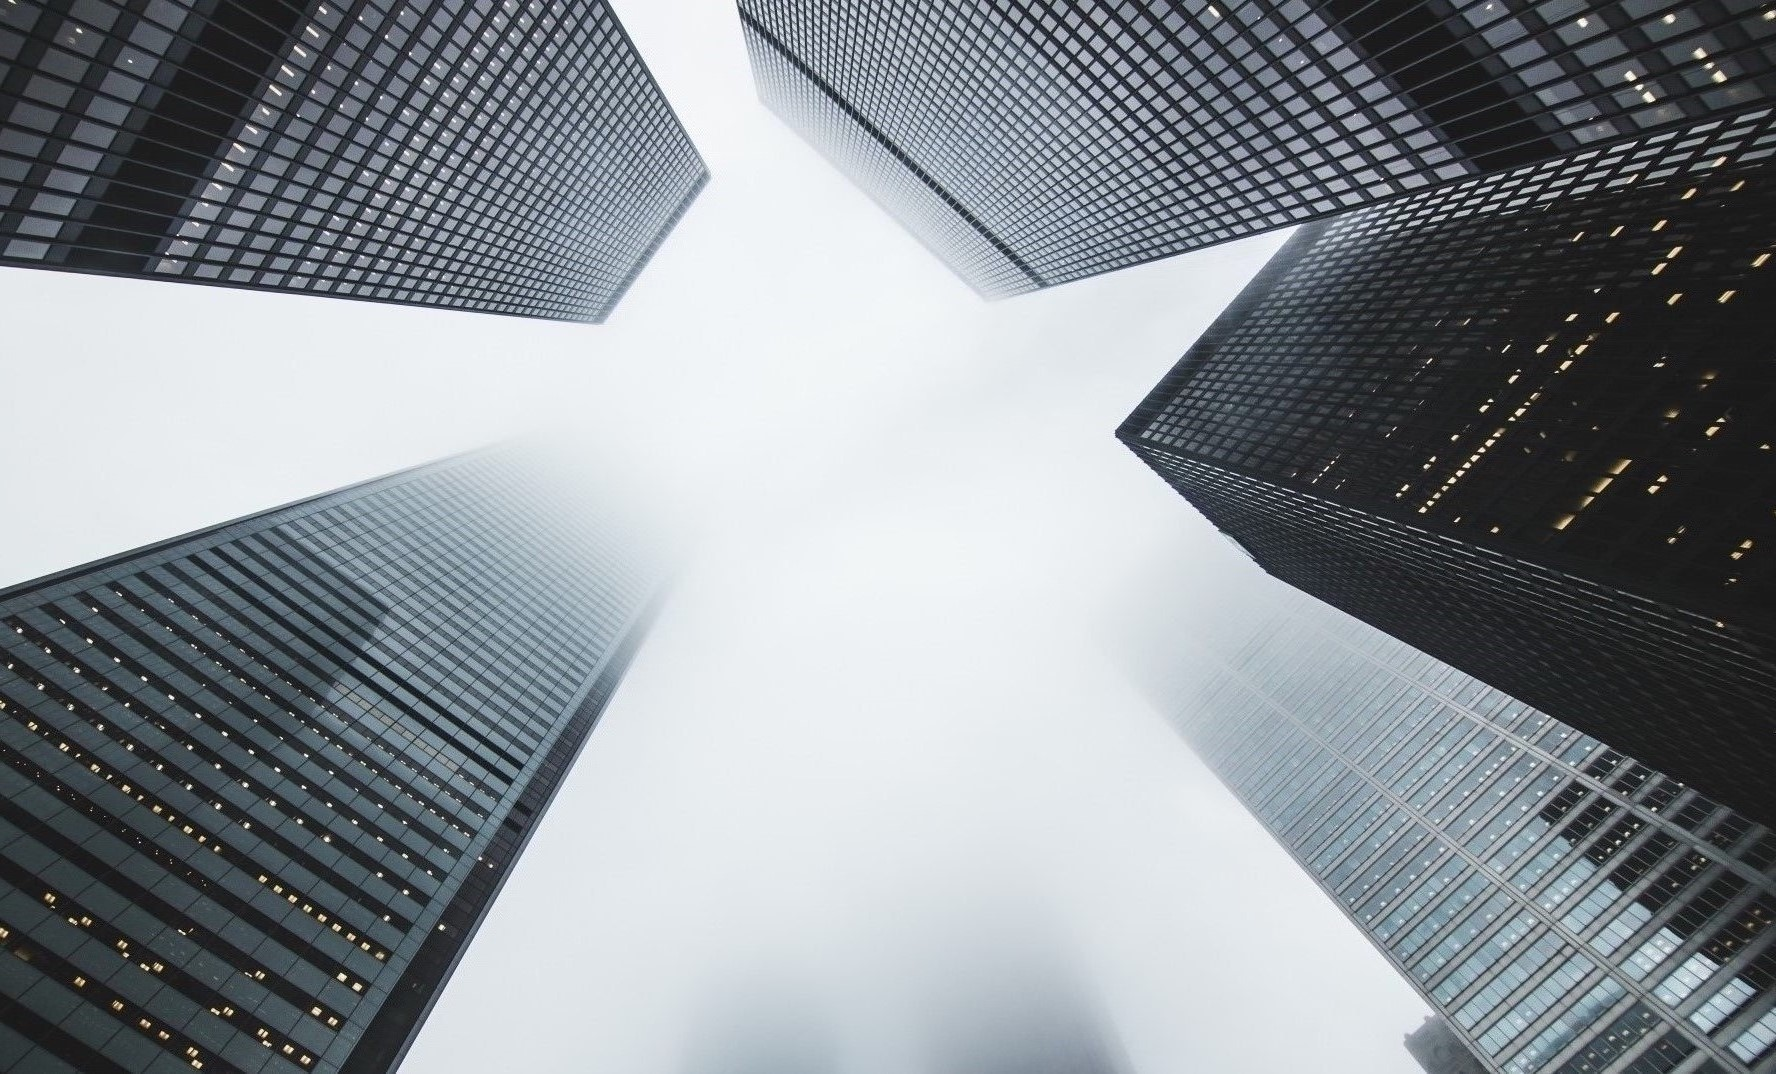
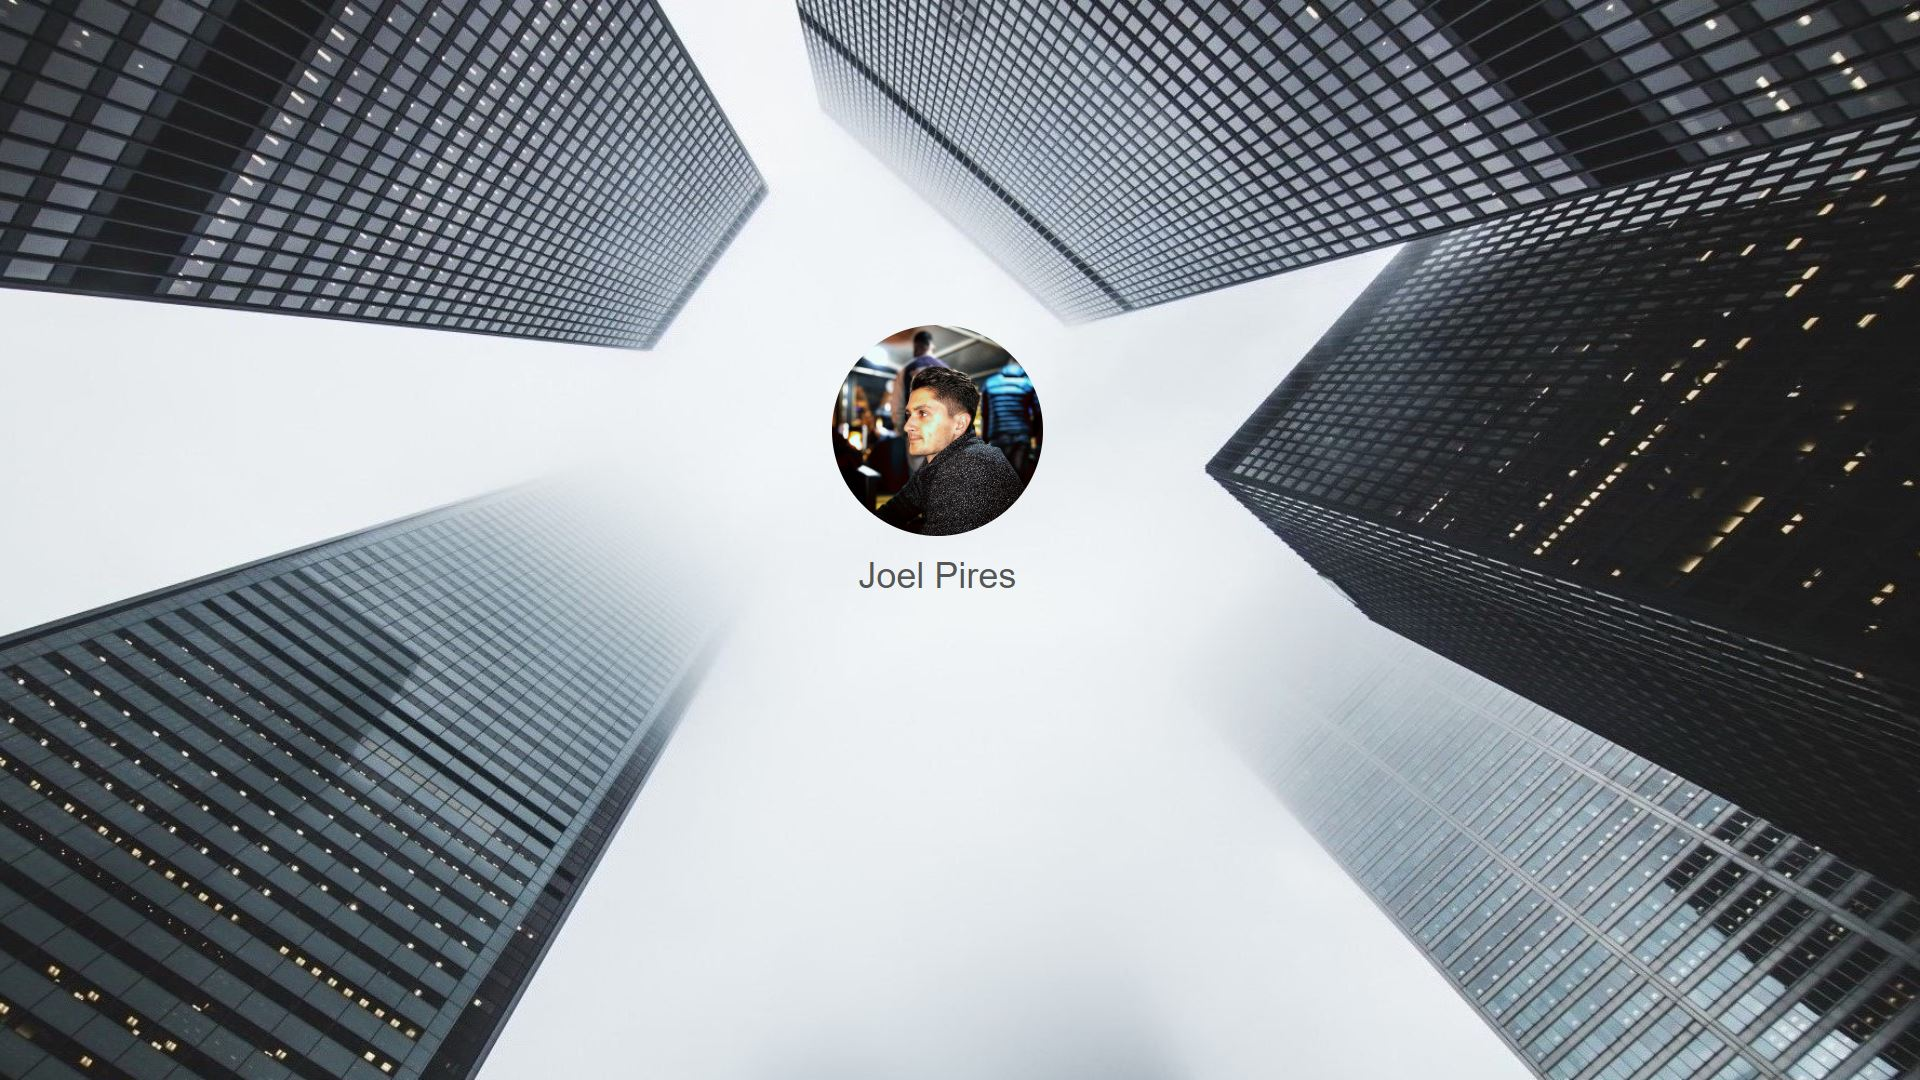
final

diff --git a/index.html b/index.html
@@ -17,8 +17,6 @@
     <div class="container">
         <div class="wrapper">
             <div class="basic" id="links">
-                <img class="imgcircle" src="./files/image.jpg">
-                <h2 class="name">Joel Pires </h2>
                 <p style="margin-right: 4%;margin-bottom: -1.2%"><a  href="mailto:joelrogao@gmail.com" target="_top">joelrogao@gmail.com</a><p>
             </div>
             <div class="info" id="links">

diff --git a/files/style.css b/files/style.css
@@ -1,7 +1,9 @@
 .bg {
   background-image: url("background.jpg");
   background-repeat: no-repeat;
+  background-attachment: fixed;
   background-size: cover;
+  overflow:auto
 }
 
 body{
